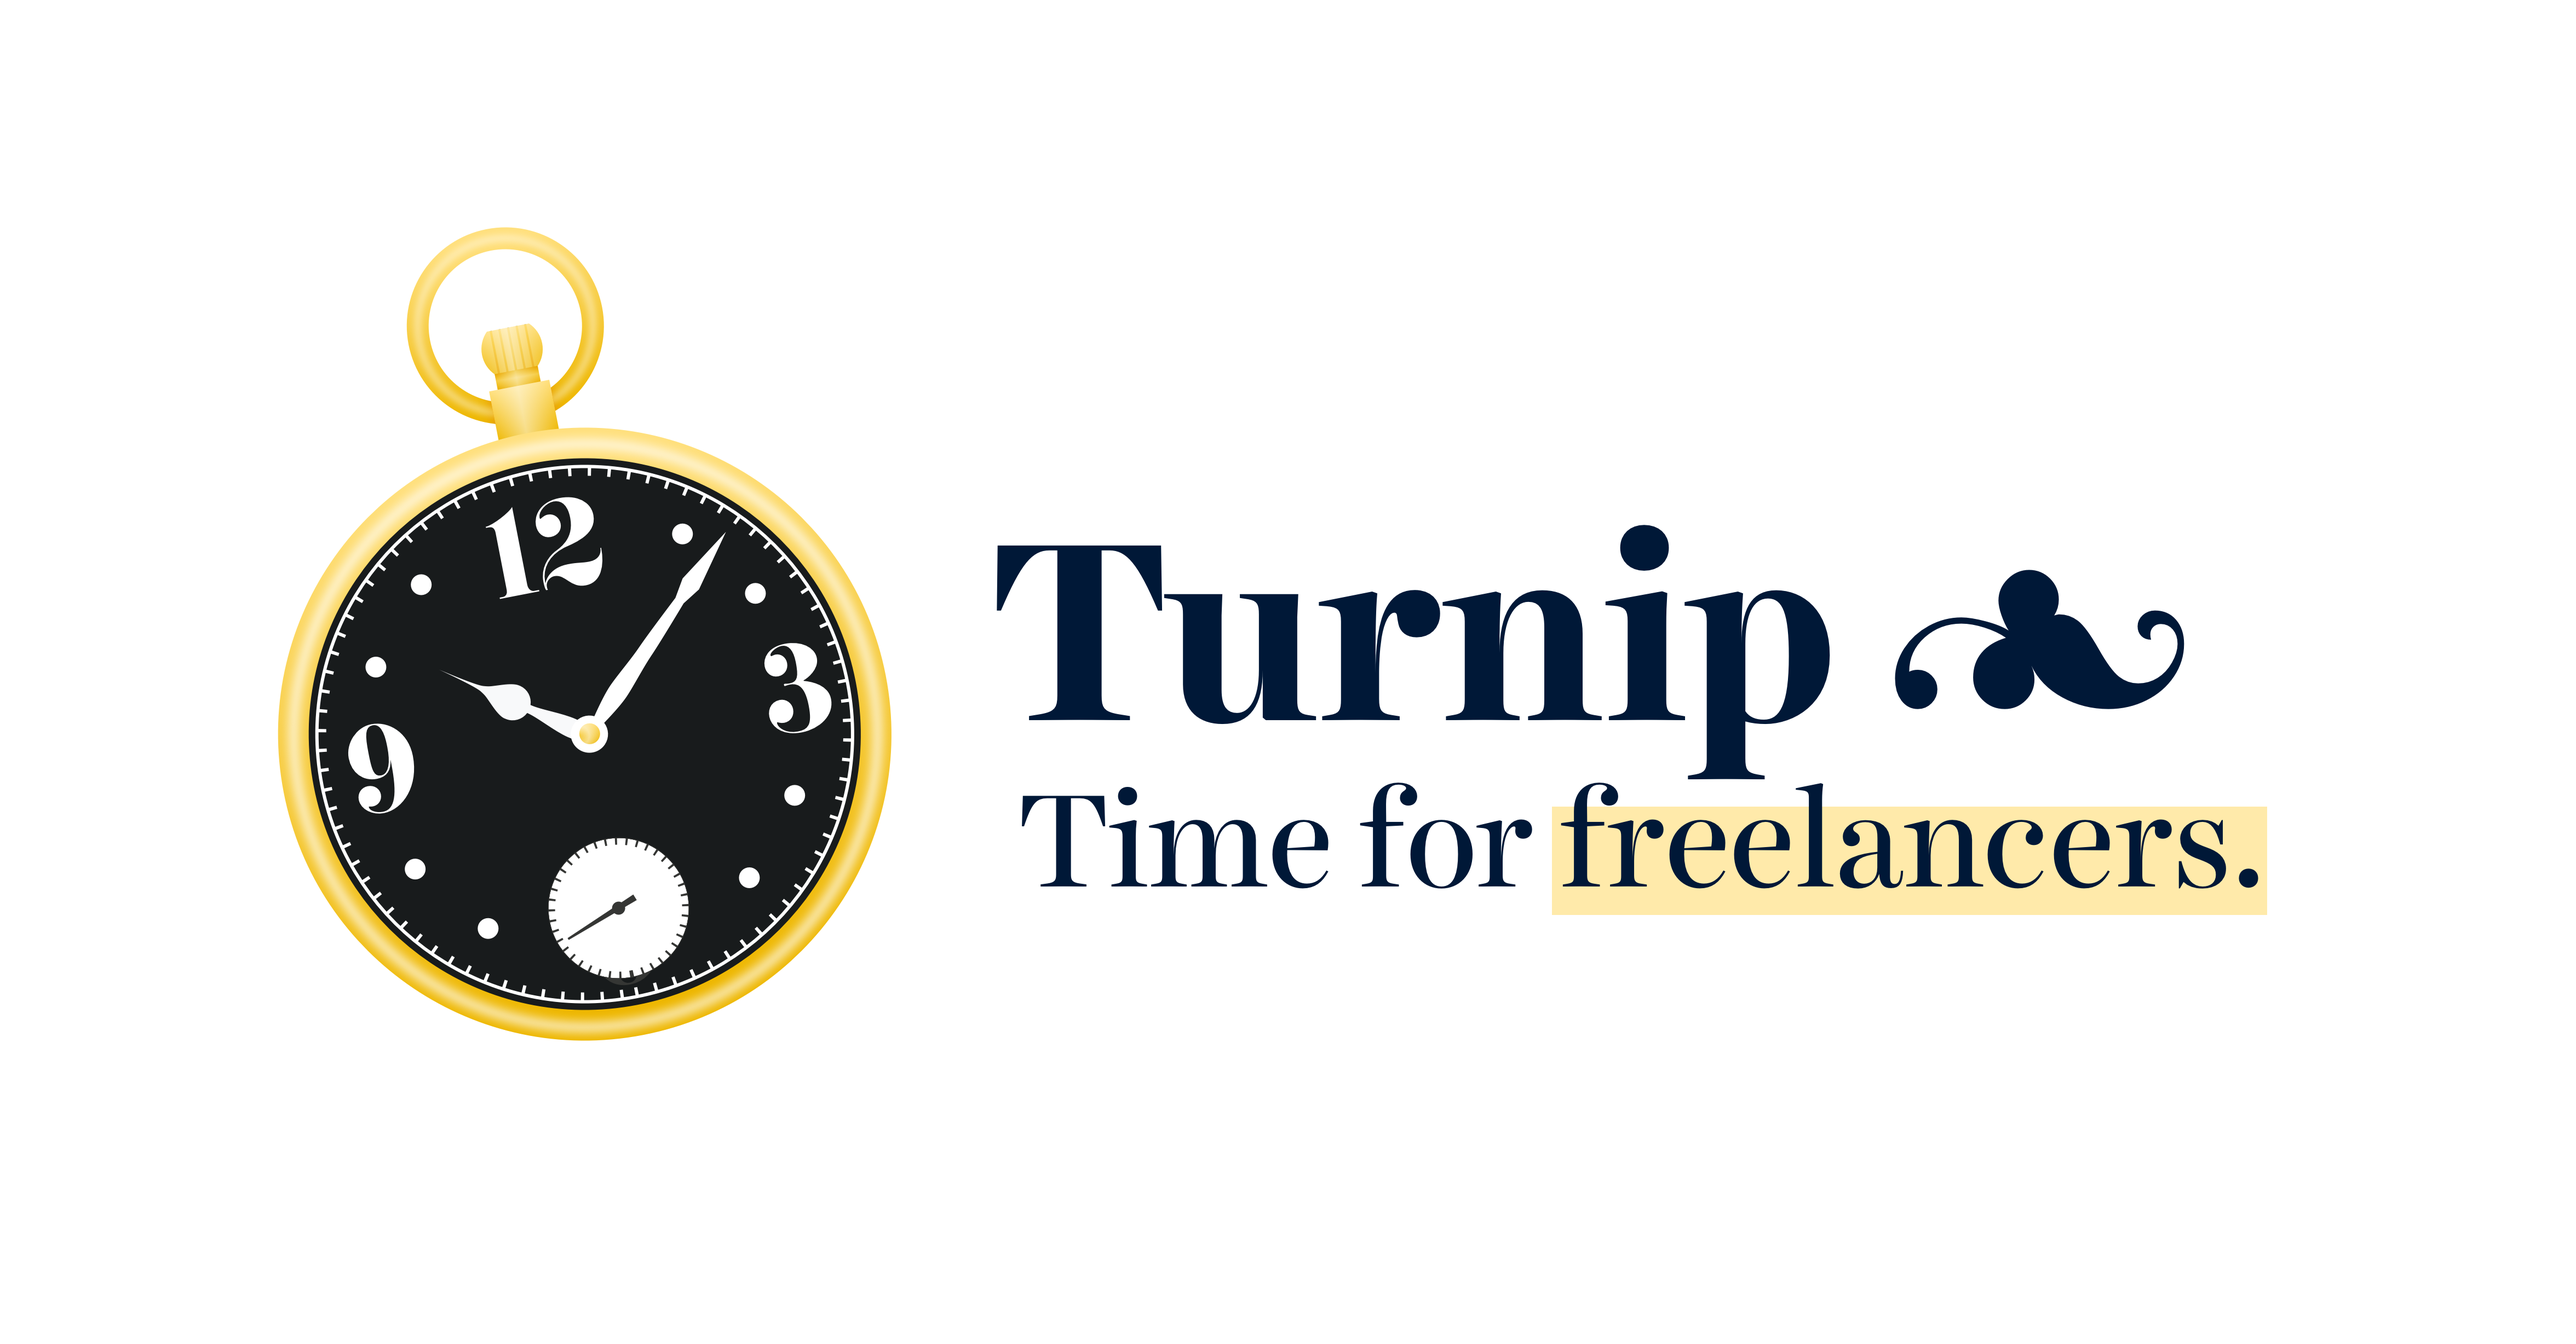
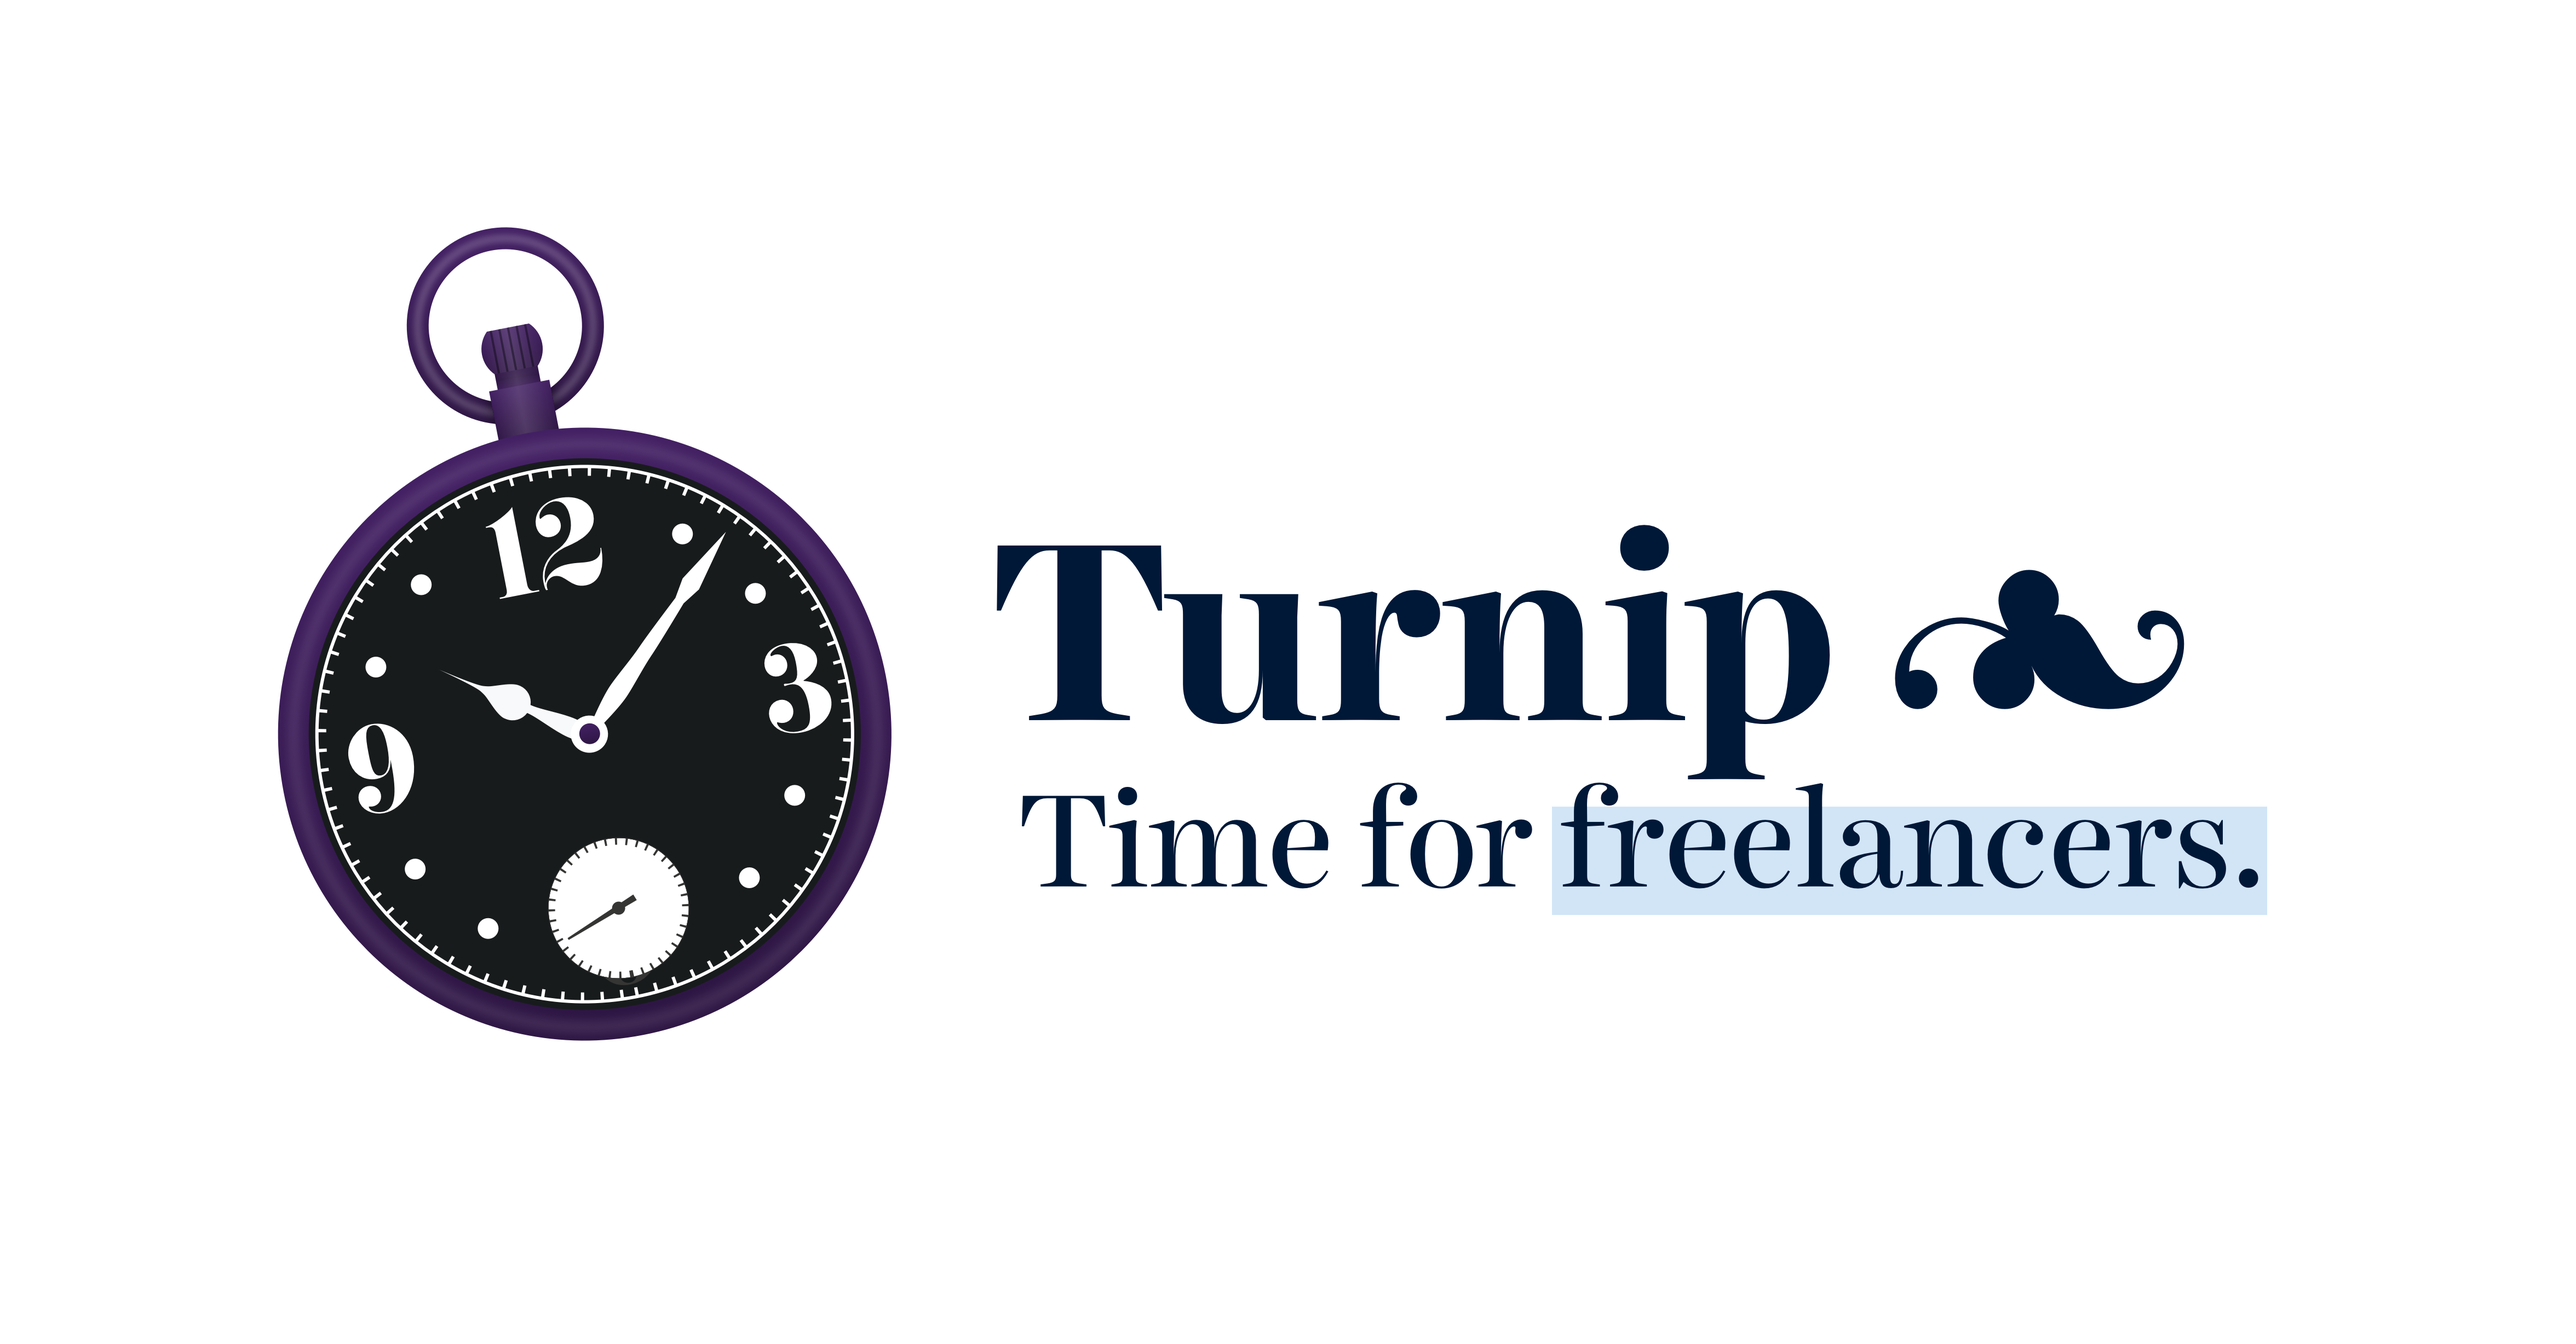
feat: Simplify beta text and arrange in panels.

Changed region(s): [[0.0938, 0.1547, 0.3438, 0.7736], [0.5938, 0.5879, 0.9062, 0.6808], [0.2188, 0.5261, 0.25, 0.557]]

diff --git a/src/components/Panel/index.js b/src/components/Panel/index.js
@@ -1,0 +1,202 @@
+import { useTheme } from '@octopusthink/nautilus';
+import React from 'react';
+import { css } from '@emotion/core';
+
+import Image from 'components/Image';
+
+const Panel = (props) => {
+  const theme = useTheme();
+  const {
+    argument,
+    background,
+    backgroundStatic,
+    children,
+    className,
+    dark,
+    fullwidth,
+    greyscale,
+    gridMobile,
+    gridTablet,
+    gridDesktop,
+    gridWide,
+    negativeMargins,
+  } = props;
+
+  let hasGrid = false;
+  if (gridMobile || gridTablet || gridDesktop || gridWide) {
+    hasGrid = true;
+  }
+
+  const panelBackground = dark ? theme.colors.neutral.black : 'transparent';
+
+  return (
+    <section
+      className={className}
+      css={css`
+        background: ${panelBackground};
+        justify-content: flex-start;
+        display: flex;
+        flex-direction: column;
+        position: relative;
+
+        ${!argument &&
+          css`
+            overflow-x: hidden;
+          `}
+
+        ${argument &&
+          css`
+            overflow-x: visible;
+            margin-top: 16rem;
+            margin-bottom: 16rem;
+            position: relative;
+          `}
+
+        ${negativeMargins &&
+          css`
+            margin-top: -16rem;
+            margin-bottom: -24rem;
+          `}
+      `}
+    >
+      {background && (
+        <Image
+          css={css`
+            object-fit: cover;
+            width: 100%;
+            height: 100vh;
+            ${argument &&
+              css`
+                height: 60vh;
+              `}
+            ${greyscale &&
+              css`
+                filter: grayscale(100%) contrast(80%) brightness(95%);
+              `}
+          `}
+          src={background}
+          width="100%"
+          alt=""
+        />
+      )}
+      {backgroundStatic && (
+        <img
+          css={css`
+            object-fit: cover;
+            width: 100%;
+            height: 100vh;
+          `}
+          loading="lazy"
+          src={backgroundStatic}
+          alt=""
+        />
+      )}
+      <div
+        css={css`
+          ${(background || backgroundStatic) &&
+            css`
+              position: absolute;
+              top: 0;
+              left: 0;
+              right: 0;
+              bottom: 0;
+            `}
+          margin: 0 auto;
+          padding-top: 4rem;
+          padding-bottom: 4rem;
+          padding-left: ${theme.site.mobilePadding};
+          padding-right: ${theme.site.mobilePadding};
+          width: 100%;
+
+          @media screen and (min-width: 780px) {
+            padding-top: ${theme.site.desktopPadding};
+            padding-bottom: ${theme.site.desktopPadding};
+            padding-left: ${theme.site.tabletPadding};
+            padding-right: ${theme.site.tabletPadding};
+          }
+
+          @media screen and (min-width: 1024px) {
+            ${!argument &&
+              css`
+                max-width: ${theme.site.maxSiteWidth};
+              `}
+            padding-left: ${theme.site.desktopPadding};
+            padding-right: ${theme.site.desktopPadding};
+          }
+
+          ${argument &&
+            css`
+              max-width: 112rem;
+            `}
+        `}
+      >
+        <div
+          css={css`
+            ${!fullwidth &&
+              css`
+                margin: auto;
+                max-width: ${theme.site.maxSiteWidth};
+              `}
+
+            ${!hasGrid &&
+              !fullwidth &&
+              css`
+                margin: auto;
+                max-width: ${theme.site.maxContentWidth};
+              `}
+
+            @media screen and (max-width: 779px) {
+              display: grid;
+              grid-gap: ${theme.site.mobilePadding};
+              height: 100%;
+
+              ${gridMobile &&
+                css`
+                  display: grid;
+                  grid-template-columns: ${gridMobile};
+                  align-items: center;
+                  height: 100%;
+                `}
+            }
+
+            @media screen and (min-width: 780px) {
+              grid-gap: ${theme.site.tabletPadding};
+              ${gridTablet &&
+                css`
+                  display: grid;
+                  grid-template-columns: ${gridTablet};
+                  align-items: center;
+                  height: 100%;
+                `}
+            }
+
+            @media screen and (min-width: 1024px) {
+              grid-gap: ${theme.site.desktopPadding};
+              ${gridDesktop &&
+                css`
+                  display: grid;
+                  grid-template-columns: ${gridDesktop};
+                  align-items: center;
+                  height: 100%;
+                `}
+            }
+
+            @media screen and (min-width: 1400px) {
+              ${gridWide &&
+                css`
+                  display: grid;
+                  grid-template-columns: ${gridWide};
+                  align-items: center;
+                  height: 100%;
+                `}
+            }
+          `}
+        >
+          {children}
+        </div>
+      </div>
+    </section>
+  );
+};
+
+export default Panel;

diff --git a/data/theme.js b/data/theme.js
@@ -56,7 +56,7 @@ const colors = {
   cyan800: '#006e76',
   cyan900: '#004f54',
 
-  blue0: '#e6edf3',
+  blue0: '#E3F2FC',
   blue100: '#cbdae7',
   blue200: '#acc5d8',
   blue300: '#87aac7',
@@ -144,8 +144,8 @@ export const theme = {
     state: {
       interactive: colors.purple200,
       interactiveText: colors.purple600,
-      hover: colors.cyan200,
-      hoverText: colors.cyan600,
+      hover: colors.blue200,
+      hoverText: colors.blue600,
       focusOutline: colors.blue200,
       focusText: colors.blue500,
       disabled: colors.grey700,
@@ -164,8 +164,8 @@ export const theme = {
       inverseDark: colors.grey300,
       emphasis: colors.grey800,
       emphasisBackground: 'transparent',
-      strong: colors.black,
-      strongBackground: colors.yellow100,
+      strong: colors.blue800,
+      strongBackground: colors.blue0,
     },
 
     buttons: {
@@ -290,6 +290,15 @@ export const theme = {
       xLarge: 32,
       xxLarge: 48,
     },
+  },
+
+  // Extra site config type stuff.
+  site: {
+    mobilePadding: '1.6rem',
+    tabletPadding: '3.2rem',
+    desktopPadding: '6.4rem',
+    maxContentWidth: '64rem',
+    maxSiteWidth: '120rem',
   },
 };
 

diff --git a/src/components/SignupForm/index.js b/src/components/SignupForm/index.js
@@ -1,9 +1,8 @@
 import { css } from '@emotion/core';
-import { Button, TextField, useTheme } from '@octopusthink/nautilus';
+import { Button, TextField } from '@octopusthink/nautilus';
 import React from 'react';
 
 const SignupForm = () => {
-  const theme = useTheme();
   return (
     <form
       action="https://buttondown.email/api/emails/embed-subscribe/octolabs"
@@ -12,6 +11,7 @@ const SignupForm = () => {
       onsubmit="window.open('https://buttondown.email/octolabs', 'popupwindow')"
       css={css`
         text-align: center;
+
         @media screen and (min-width: 560px) {
           display: flex;
           align-items: flex-end;

diff --git a/src/components/SiteFooter/index.js b/src/components/SiteFooter/index.js
@@ -1,11 +1,10 @@
 import { css } from '@emotion/core';
-import { Paragraph, Link, useTheme } from '@octopusthink/nautilus';
+import { Paragraph, Link } from '@octopusthink/nautilus';
 import React from 'react';
 
 import config from 'data/SiteConfig';
 
 const SiteFooter = () => {
-  const theme = useTheme();
   return (
     <footer
       css={css`

diff --git a/src/templates/App.js b/src/templates/App.js
@@ -38,7 +38,7 @@ export const App = (props) => {
           id="content"
           css={css`
             margin: 0 auto;
-            max-width: ${config.contentWidth};
+            //max-width: ${config.contentWidth};
             padding: 0 1.6rem;
           `}
         >
